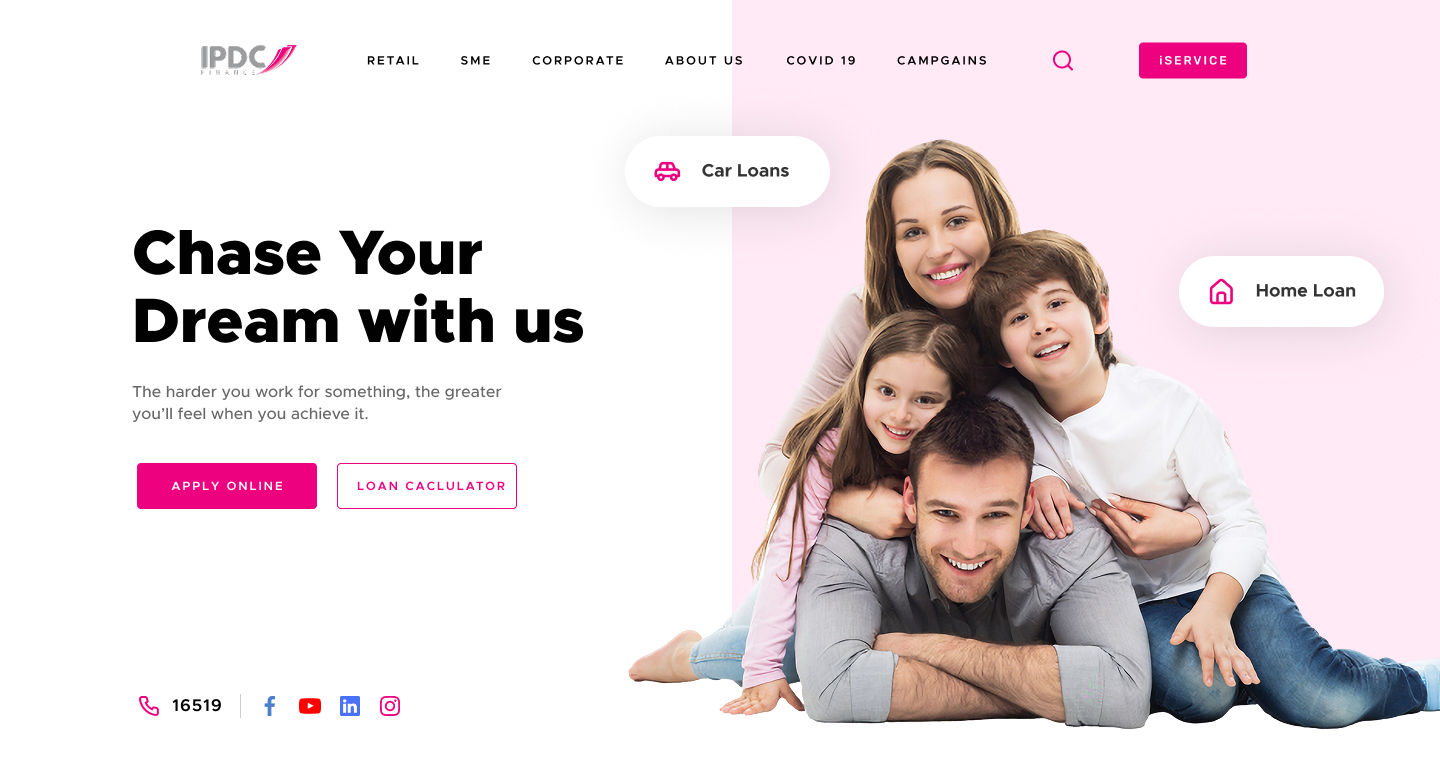
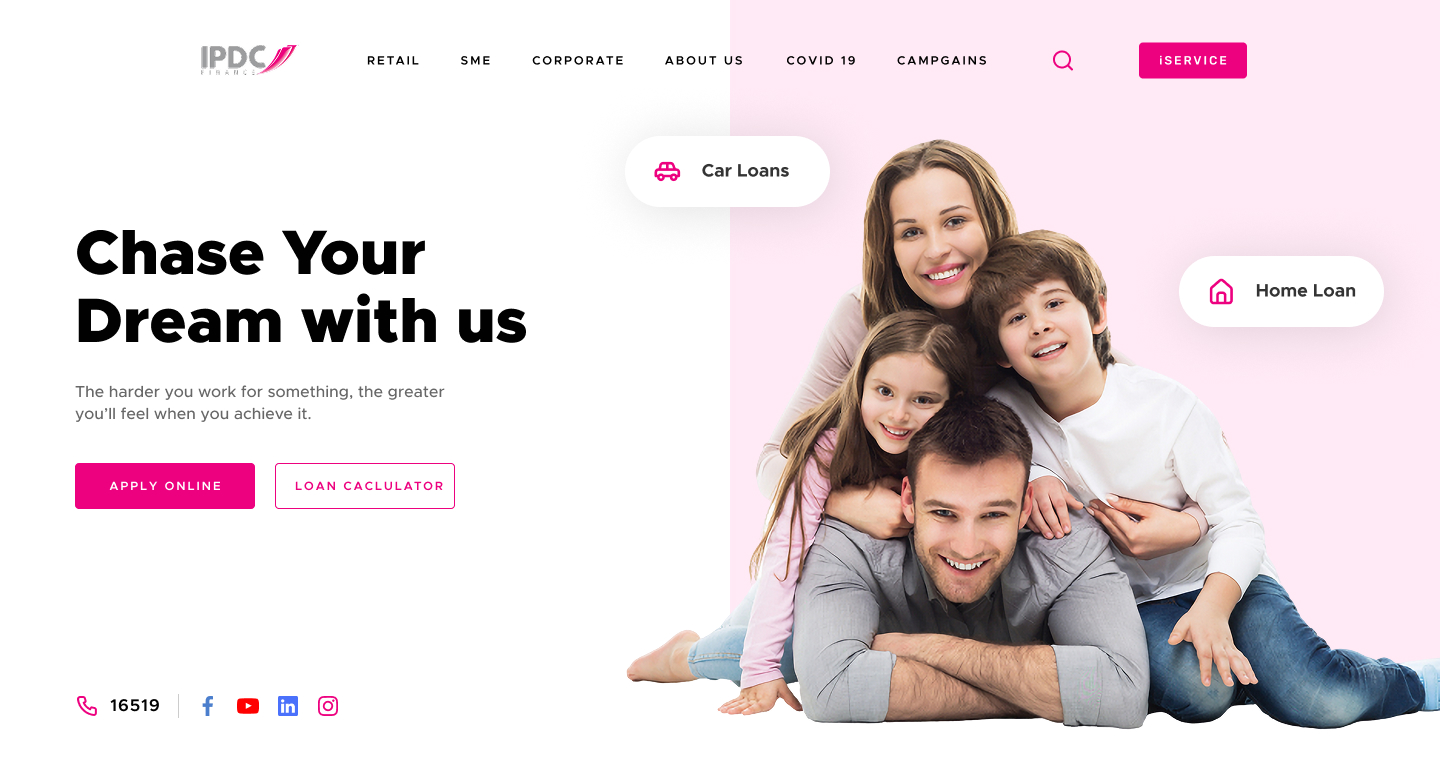
feat: add hero section

diff --git a/Lab3Web/finance.css b/Lab3Web/finance.css
@@ -5,10 +5,13 @@
 }
 @font-face {
   font-family: "Metropolis";
-  src: url("fonts/Metropolis-SemiBold.otf") format("truetype");
-  font-weight: 400;
+  src:
+    url("fonts/Metropolis-SemiBold.otf") format("opentype"),
+    url("fonts/Metropolis-Black.otf") format("opentype"),
+    url("fonts/Metropolis-Medium.otf") format("opentype"),
+    url("fonts/Metropolis-ExtraLight.otf") format("opentype"),
+    url("fonts/Metropolis-Regular.otf") format("opentype");
 }
-
 header {
   display: flex;
   width: 1440px;
@@ -33,7 +36,7 @@ nav {
   font-feature-settings:
     "liga" off,
     "clig" off;
-  font-family: Metropolis-SemiBold;
+  font-family: Metropolis;
   font-size: 12px;
   font-style: normal;
   font-weight: 600;
@@ -44,9 +47,12 @@ nav {
 a {
   text-decoration: none;
 }
-
+button {
+  box-shadow: none;
+  border: none;
+  outline: none;
+}
 .button {
-  all: unset;
   cursor: pointer;
   background: #ed017f;
 
@@ -60,11 +66,9 @@ a {
   line-height: 20px;
   letter-spacing: 2px;
 }
-
 .button-small {
   border-color: #ed017f;
   background: #ed017f;
-
   padding: 8px 20px;
   align-items: flex-start;
   color: #fff;
@@ -74,10 +78,113 @@ a {
     "clig" off;
   font-family: Rubik;
 }
-
 .container {
   background-image: url("public/Background.png");
   background-repeat: no-repeat;
   background-position: top right;
+  min-height: 768px;
+  display: flex;
+  flex-direction: column;
 }
 
+.hero-section {
+  padding: 100px 75px;
+  display: flex;
+  flex-direction: column;
+  justify-content: space-between;
+  flex: 1;
+}
+
+.hero {
+  display: flex;
+  width: 453px;
+  flex-direction: column;
+  align-items: flex-start;
+}
+
+.hero h1 {
+  align-self: stretch;
+  color: var(--black-100, #010101);
+  font-feature-settings:
+    "liga" off,
+    "clig" off;
+  font-family: "Metropolis Black";
+  font-size: 63px;
+  font-weight: 900;
+  line-height: 68px;
+}
+.hero p {
+  padding-top: 24px;
+  padding-bottom: 38px;
+  width: 380px;
+  color: var(--black-60, #676767);
+  font-feature-settings:
+    "liga" off,
+    "clig" off;
+  font-family: "Metropolis";
+  font-size: 16px;
+  font-weight: 400;
+  line-height: 22px;
+}
+.btn {
+  width: 180px;
+  height: 46px;
+  padding: 13px 20px;
+  justify-content: center;
+  align-items: center;
+  border-radius: 4px;
+  text-align: center;
+  font-feature-settings:
+    "liga" off,
+    "clig" off;
+  font-family: "Metropolis";
+  font-size: 12px;
+  font-weight: 200;
+  line-height: 20px;
+  letter-spacing: 2px;
+  text-transform: uppercase;
+}
+.btn-pink {
+  background-color: #ed017f;
+  border-color: #ed017f;
+  color: #fff;
+}
+.btn-white {
+  border: 1px solid #ed017f;
+  background-color: #fff;
+  color: #ed017f;
+
+  white-space: nowrap;
+}
+.hero-buttons {
+  display: flex;
+  align-items: flex-start;
+  gap: 20px;
+  padding-bottom: 0;
+}
+
+.hero-bottom {
+  display: flex;
+  align-items: flex-start;
+  gap: 16px;
+}
+
+.hero-bottom p {
+  color: var(--black-100, #010101);
+  text-align: center;
+  font-feature-settings:
+    "liga" off,
+    "clig" off;
+  font-family: Metropolis;
+  font-size: 17px;
+  font-style: normal;
+  font-weight: 600;
+  line-height: 22px;
+  letter-spacing: 1px;
+}
+
+.vertical-line {
+  height: 24px;
+  width: 0;
+  border: 1px solid rgba(0, 0, 0, 20%);
+}

diff --git a/Lab3Web/finance.html b/Lab3Web/finance.html
@@ -8,21 +8,41 @@
 </head>
 <body>
     <div class="container">
-    <header>
-        <img src="public/logo.png" alt="Logo">
-        <nav>
-            <div class="nav-item"><a href="">RETAIL</a></div>
-            <div class="nav-item"><a href="">SME</a></div>
-            <div class="nav-item"><a href="">CORPORATE</a></div>
-            <div class="nav-item"><a href="">ABOUT US</a></div>
-            <div class="nav-item"><a href="">COVID 19</a></div>
-            <div class="nav-item"><a href="">CAMPGAINS</a></div>
-        </nav>
-        <img src="public/Magnifier.png" alt="Magnifier">
-        <button class="button button-small">iSERVICE</button>
+        <header>
+            <img src="public/logo.png" alt="Logo">
+            <nav>
+                <div class="nav-item"><a href="">RETAIL</a></div>
+                <div class="nav-item"><a href="">SME</a></div>
+                <div class="nav-item"><a href="">CORPORATE</a></div>
+                <div class="nav-item"><a href="">ABOUT US</a></div>
+                <div class="nav-item"><a href="">COVID 19</a></div>
+                <div class="nav-item"><a href="">CAMPGAINS</a></div>
+            </nav>
+            <img src="public/Magnifier.png" alt="Magnifier">
+            <button class="button button-small">iSERVICE</button>
+        </header>
+        <section class="hero-section">
+            <div class="hero">
+                <h1>Chase Your Dream with us</h1>    
+                <p class="">The harder you work for something, the greater you'll feel when you achieve it.</p>
+                <div class="hero-buttons">
+                    <button class="btn btn-pink">Apply Online</button>
+                    <button class="btn btn-white">Loan Caclulator</button>
+                </div>
+            </div>
+            <div class="hero-bottom">
+                <img src="public/call.png" alt="phone">
+                <p>16519</p>
+                <div class="vertical-line"></div>
+                    <img src="public/facebook.png" alt="facebook">
+                    <img src="public/youtube.png" alt="youtube">
+                    <img src="public/linkedin.png" alt="linkedin">
+                    <img src="public/instagram.png" alt="instagram">
+                </div>
+
+            </div>
+        </section>
         
-    </header>
-    
 </div>
 
 
